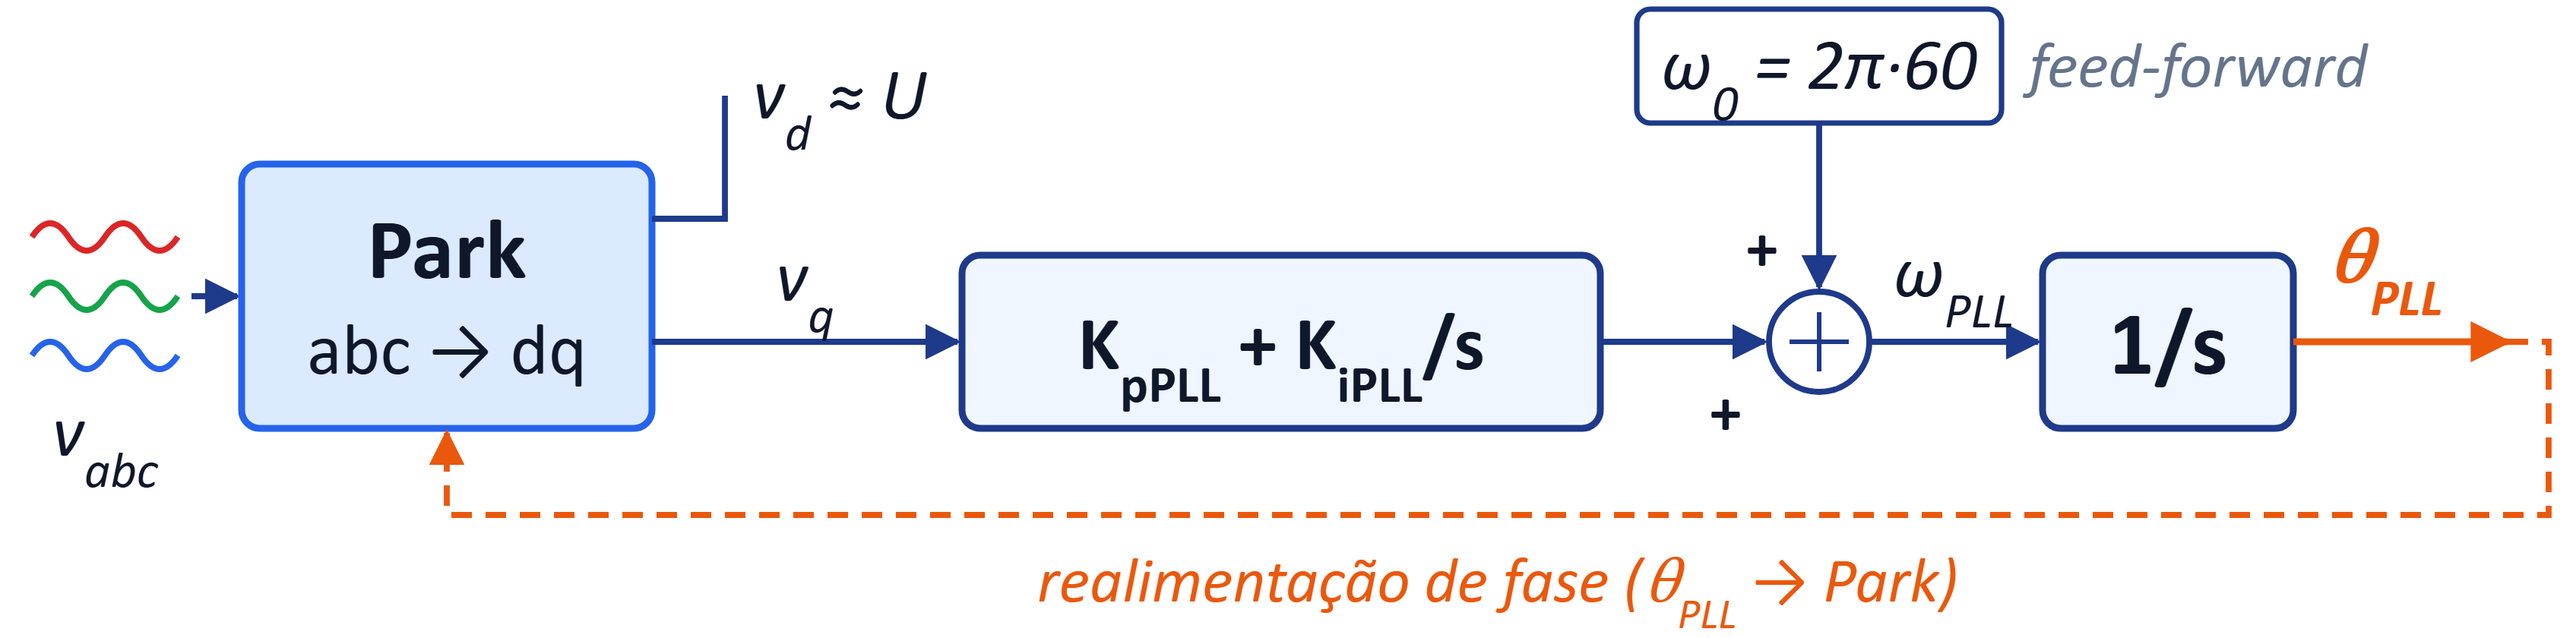
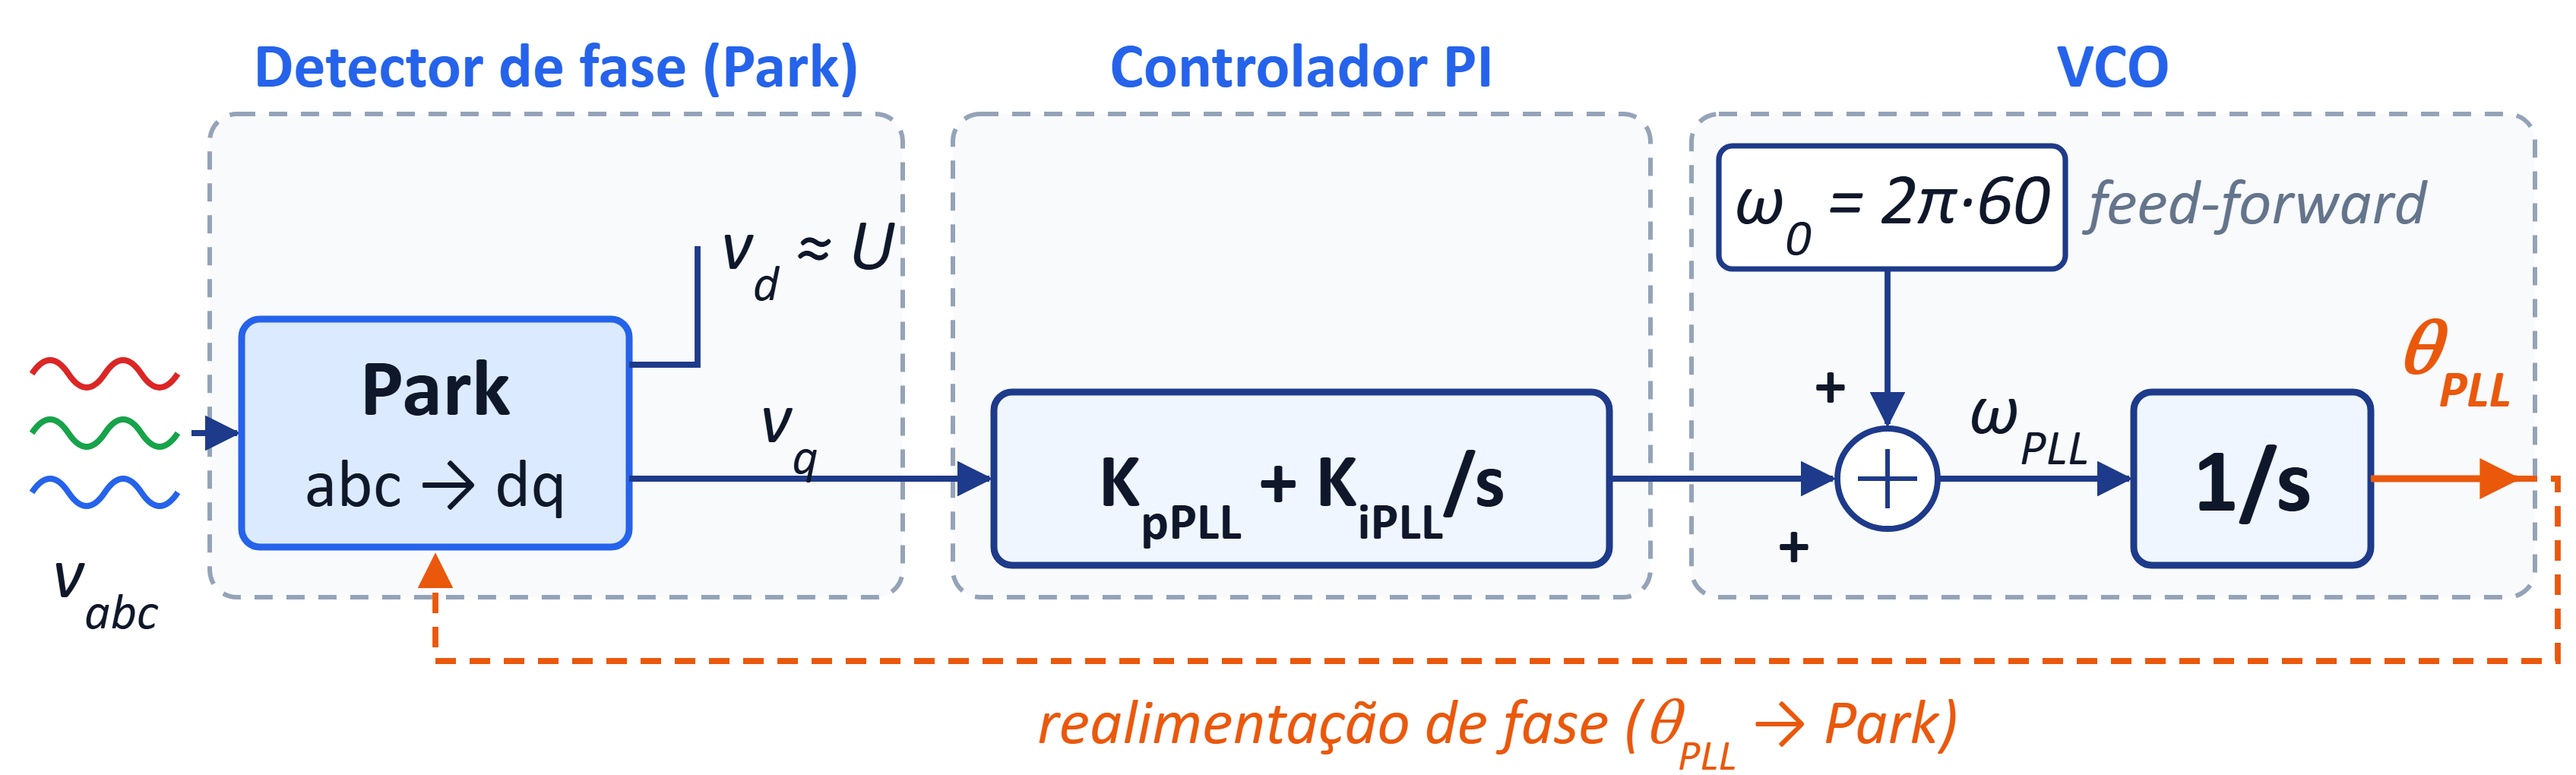
Mark the SRF-PLL functional blocks on the defense deck slide 6
Dashed regions now group the redrawn Fig. 4.3 into the phase detector,
PI controller and VCO, following the functional split of Fig. 3.3 of the
TCC and using the titles of the cards below, so the talk can point at
each region and its card together.

Also corrects the diagrams README, which still called that functional
diagram Fig. 3.2 although the delivered TCC numbers it 3.3.

diff --git a/assets/diagrams/README.md b/assets/diagrams/README.md
@@ -20,11 +20,11 @@ Diagramas usados no README principal (secoes "Motivacao", "Arquitetura do SRF-PL
 | `ons_voltage_ridethrough_envelope.svg` / `.png` | SVG (curva V×t) | Versao README da figura acima: mesmo desenho + titulo e notas de norma (§5.7.1.1, §5.2.4). Editar primeiro a `_tcc` e propagar | `.claude/kb/standards/ride-through/ons_voltage_ride_through.md` |
 | `ons_reactive_current_curve_tcc.svg` / `.png` | SVG (curva V×ΔIq) | Figura 2.2 do TCC — injecao de corrente reativa sob defeito (ONS §5.8, Figura 14 da norma), com as 3 zonas rotuladas (subtensao/injecao, banda morta 0,85-1,10 pu, sobretensao/absorcao) e V1/V2 padrao. Sem titulo interno (ABNT). Refeito em 2026-09-26 | `.claude/kb/standards/ride-through/ons_voltage_ride_through.md` |
 | `ons_reactive_current_curve.svg` / `.png` | SVG (curva V×ΔIq) | Versao README da figura acima: + titulo e notas (§5.8.2, §5.8.4, sinal ONS vs `ONS_2_11`). Editar primeiro a `_tcc` e propagar | `.claude/kb/standards/ride-through/ons_2_11.md` |
-| `srf_pll_blocos_funcionais.svg` / `.png` | SVG (controle) | Figura 3.2 do TCC — SRF-PLL decomposto nos tres blocos funcionais da Secao 3.4 (Detector de Fase/Park, Controlador PI, VCO com feed-forward de omega_n e integrador), com os mesmos simbolos da Figura 4.3 (`pll_control_loop.svg`). Sem titulo interno: na ABNT o titulo vai na legenda. Criado em 2026-09-13 para substituir duas imagens sem fonte (uma copiada de outro trabalho academico, outra com erros de ingles gravados no bitmap). PNG exportado pelo Edge headless, ver `export_png.md` da skill | `.claude/kb/pll/teoria/srf_pll_theory.md` |
+| `srf_pll_blocos_funcionais.svg` / `.png` | SVG (controle) | Figura 3.3 do TCC entregue (era 3.2 no fragmento) — SRF-PLL decomposto nos tres blocos funcionais da Secao 3.4 (Detector de Fase/Park, Controlador PI, VCO com feed-forward de omega_n e integrador), com os mesmos simbolos da Figura 4.3 (`pll_control_loop.svg`). Sem titulo interno: na ABNT o titulo vai na legenda. Criado em 2026-09-13 para substituir duas imagens sem fonte (uma copiada de outro trabalho academico, outra com erros de ingles gravados no bitmap). PNG exportado pelo Edge headless, ver `export_png.md` da skill | `.claude/kb/pll/teoria/srf_pll_theory.md` |
 | `current_control_dq_blocos.svg` / `.png` | SVG (controle) | Figura do §3.1.4 do TCC — controle de corrente em dq no estilo da Fig. 8.10 de Yazdani & Iravani (2010), pedida pelo orientador, mas **fiel ao modelo**: PI (Kp/4 + Ki/4s) + notch N(s) por eixo (subsistema PWM Control, SID 3974), sem desacoplamento ωL nem feedforward de v_g (não existem no .slx). Desde 2026-10-02 (18h54) mostra só o que o controlador tem: v_g e ωL saíram também da planta, a pedido do Victor; Vcc/2 e 1/(Ls+R) são modelos médios do VSI e do LCL. Sem título interno. Criado em 2026-10-02, PNG pelo Edge headless | `.claude/kb/inverter/agp_current_control_theory.md`, `.claude/kb/inverter/simulink_model.md` |
 | `pll_bancada_duas_fontes.svg` / `.png` | SVG (unifilar + controle) | Slide 7 do deck da defesa (nao e figura do TCC): bancada inicial no PSIM, com o SRF-PLL medindo o PCC entre um barramento infinito atras do equivalente de Thevenin e uma fonte ideal no papel da geracao. Sem o ramo de curto da captura original (o afundamento so foi feito no Simulink). Paleta do deck (marinho `#1E3A8A`, azul `#2563EB`, laranja `#EA580C`), fonte Calibri, viewBox 548x452 na proporcao da moldura do slide (4,45 x 3,87 in). Criado em 2026-10-18 | `.claude/kb/psim/psim_modeling.md` |
 | `park_abc_dq_equacao.svg` / `.png` | SVG (equacao) | Slide 5 do deck da defesa: equacao (3.5) do TCC (transformada de Park abc -> dq, fator 2/3, linha q com -sin) desenhada a mao, com o angulo θ em laranja para o gancho "E o angulo θ?" que leva ao slide do SRF-PLL. Cambria Math, marinho `#1E3A8A`, viewBox 960x190. Criado em 2026-10-18 | `.claude/kb/tcc-pptx/deck_map.md` |
-| `pll_control_loop_defesa.svg` / `.png` | SVG (controle) | Slide 6 do deck da defesa: Figura 4.3 do TCC (`pll_control_loop.svg`) redesenhada para projecao, a pedido do Victor. Mesmos blocos, sinais e ligacoes; notacao v (como a eq. 3.5 e o texto do TCC), sem titulo interno, sem os rotulos cinza dos blocos e sem as equacoes (viram texto num cartao do slide). Paleta do deck, theta_PLL e realimentacao em laranja. viewBox 1130x280 = caixa de 7,53 x 1,87 in (150 un/in). Criado em 2026-10-18 | `.claude/kb/tcc-pptx/deck_map.md` |
+| `pll_control_loop_defesa.svg` / `.png` | SVG (controle) | Slide 6 do deck da defesa: Figura 4.3 do TCC (`pll_control_loop.svg`) redesenhada para projecao, a pedido do Victor. Mesmos blocos, sinais e ligacoes; notacao v (como a eq. 3.5 e o texto do TCC), sem titulo interno, sem os rotulos cinza dos blocos e sem as equacoes (viram texto num cartao do slide). Areas tracejadas demarcam os blocos funcionais da Figura 3.3 do TCC (Detector de fase, Controlador PI, VCO), com os nomes dos cartoes do slide. Paleta do deck, theta_PLL e realimentacao em laranja. viewBox 1130x340 = caixa de 7,53 x 2,27 in (150 un/in). Criado em 2026-10-18 | `.claude/kb/tcc-pptx/deck_map.md` |
 
 ## Convencoes visuais
 

diff --git a/.claude/kb/tcc-pptx/deck_map.md b/.claude/kb/tcc-pptx/deck_map.md
@@ -24,7 +24,7 @@ aliases: [defesa-deck-map]
 | 3 | Blecautes recentes passaram pela geração inversorizada | Cap. 2, [[brasil-2023-overview]] | 23.368 MW (§2.4.3), 265 GW·s; > 2,5 GW por sobretensão, 0,63 Hz antes do colapso; 11.066 MW, 73% |
 | 4 | SRF-PLL depende de tensão boa, que a falta destrói + objetivos (redação do TCC) | Cap. 1 | 120 Hz |
 | 5 | Girando com a rede, a transformada de Park torna constantes as grandezas trifásicas (equação 3.5 em imagem na largura toda, θ em laranja; 2 cartões lado a lado embaixo; gancho "E o ângulo θ?") | Eq. (3.5), §3.1.2, fim da §3.1.3 | figura `assets/diagrams/park_abc_dq_equacao.svg`; nenhum número |
-| 6 | O SRF-PLL usa a própria transformada de Park para estimar θ (Fig. 4.3 redesenhada nas 2 primeiras colunas, `assets/diagrams/pll_control_loop_defesa.svg`, notação v; cartão "Sintonia do PI" à direita com as equações em texto Cambria Math; cartões PD, PI e VCO em linha embaixo; "Por que o travamento importa?") | Fig. 4.3, §3.5, resumo do Cap. 3 | equações da Fig. 4.3: KpPLL = 2ξωn, KiPLL = ωn², s² + KpPLL·U·s + KiPLL·U = 0 |
+| 6 | O SRF-PLL usa a própria transformada de Park para estimar θ (Fig. 4.3 redesenhada nas 2 primeiras colunas, com áreas tracejadas PD/PI/VCO da Fig. 3.3, `assets/diagrams/pll_control_loop_defesa.svg`, notação v; cartão "Sintonia do PI" à direita com as equações em texto Cambria Math; cartões PD, PI e VCO em linha embaixo; "Por que o travamento importa?") | Fig. 4.3, §3.5, resumo do Cap. 3 | equações da Fig. 4.3: KpPLL = 2ξωn, KiPLL = ωn², s² + KpPLL·U·s + KiPLL·U = 0 |
 | 7 | A rede vista da Barra 2 se reduz a um equivalente de Thévenin | Fig. 4.1, §4.3.1 | 192 MVA original, 100 MW; sem R_th/L_th na tela |
 | 8 | **Novo (exceção de método)**: o primeiro teste pôs o SRF-PLL entre duas fontes ideais | [[psim-modeling]] (fora do TCC) | figura `assets/diagrams/pll_bancada_duas_fontes.svg`; nenhum número |
 | 9 | Na bancada, ts = 20 ms levou a Kp 460, Ki 105.820; inadequada −80% (tabela das duas sintonias) | §4.3, [[pll-loop-filter-gains]], [[cenarios-simulados]] | ωn 325,3/145,5; ξ 0,707/0,316; Kp 92, Ki 21.164 |

diff --git a/.claude/kb/tcc-pptx/historico_entregas.md b/.claude/kb/tcc-pptx/historico_entregas.md
@@ -10,6 +10,17 @@ aliases: [defesa-historico-entregas]
 > depois, backup gravado, o que o `diff_slides.py` mostrou. Mesmo formato
 > de [[tcc-historico-entregas]] (o do TCC DOCX). Mapa em [[defesa-deck-map]].
 
+## 2026-10-18 (noite, 3): blocos funcionais demarcados no slide 6 (entregue)
+
+- Pedido do Victor: marcar na figura o detector de fase, o PI e o VCO.
+  Áreas tracejadas com os nomes dos cartões, recorte da Fig. 3.3 do TCC
+  (§3.4; VCO = ω0 + somador + 1/s). Moldura e cartão de equações 2,80 in;
+  cartões e caixa do pé descidos. Staging `C:\Temp\defesa_s6b\`.
+- MD5 antes 08b059738bcac85515b68e20cca33788, depois
+  2d916e20cfbbe4e70c8e60b3f1904c67; backup
+  `Defesa_TCC_SRF-PLL_backup_20261018_185235.pptx`. `diff_slides.py`: só a
+  imagem do slide 6; check_pptx 0 falhas; slide-validator sem bloqueador.
+
 ## 2026-10-18 (noite, 2): slide 6 com a Fig. 4.3 redesenhada (entregue)
 
 - Pedido do Victor: diagrama e equações maiores no projetor. Três variantes
